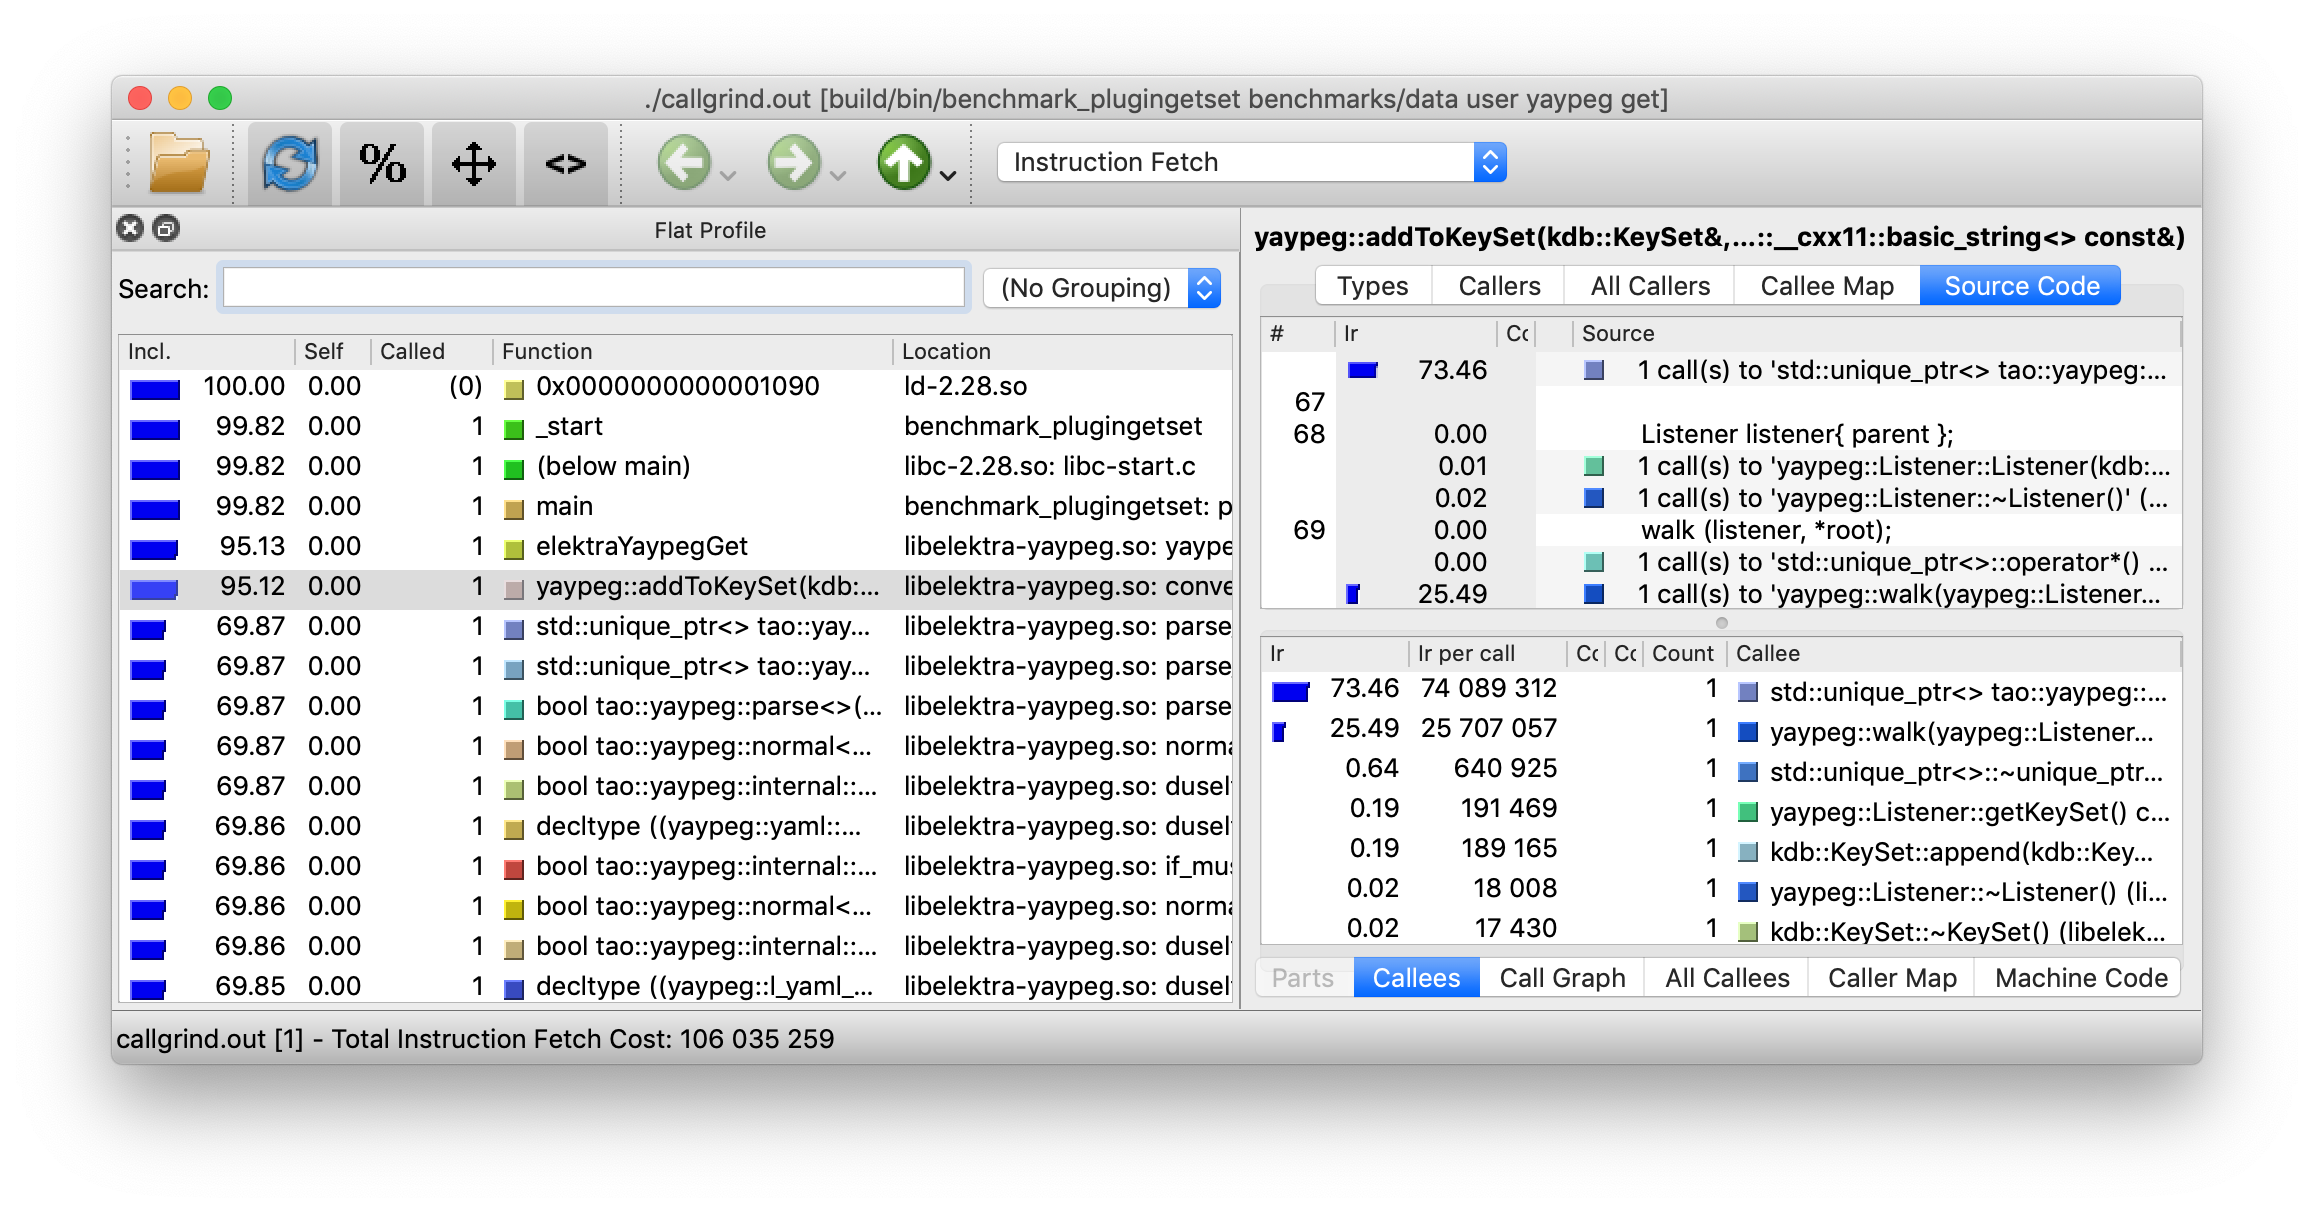
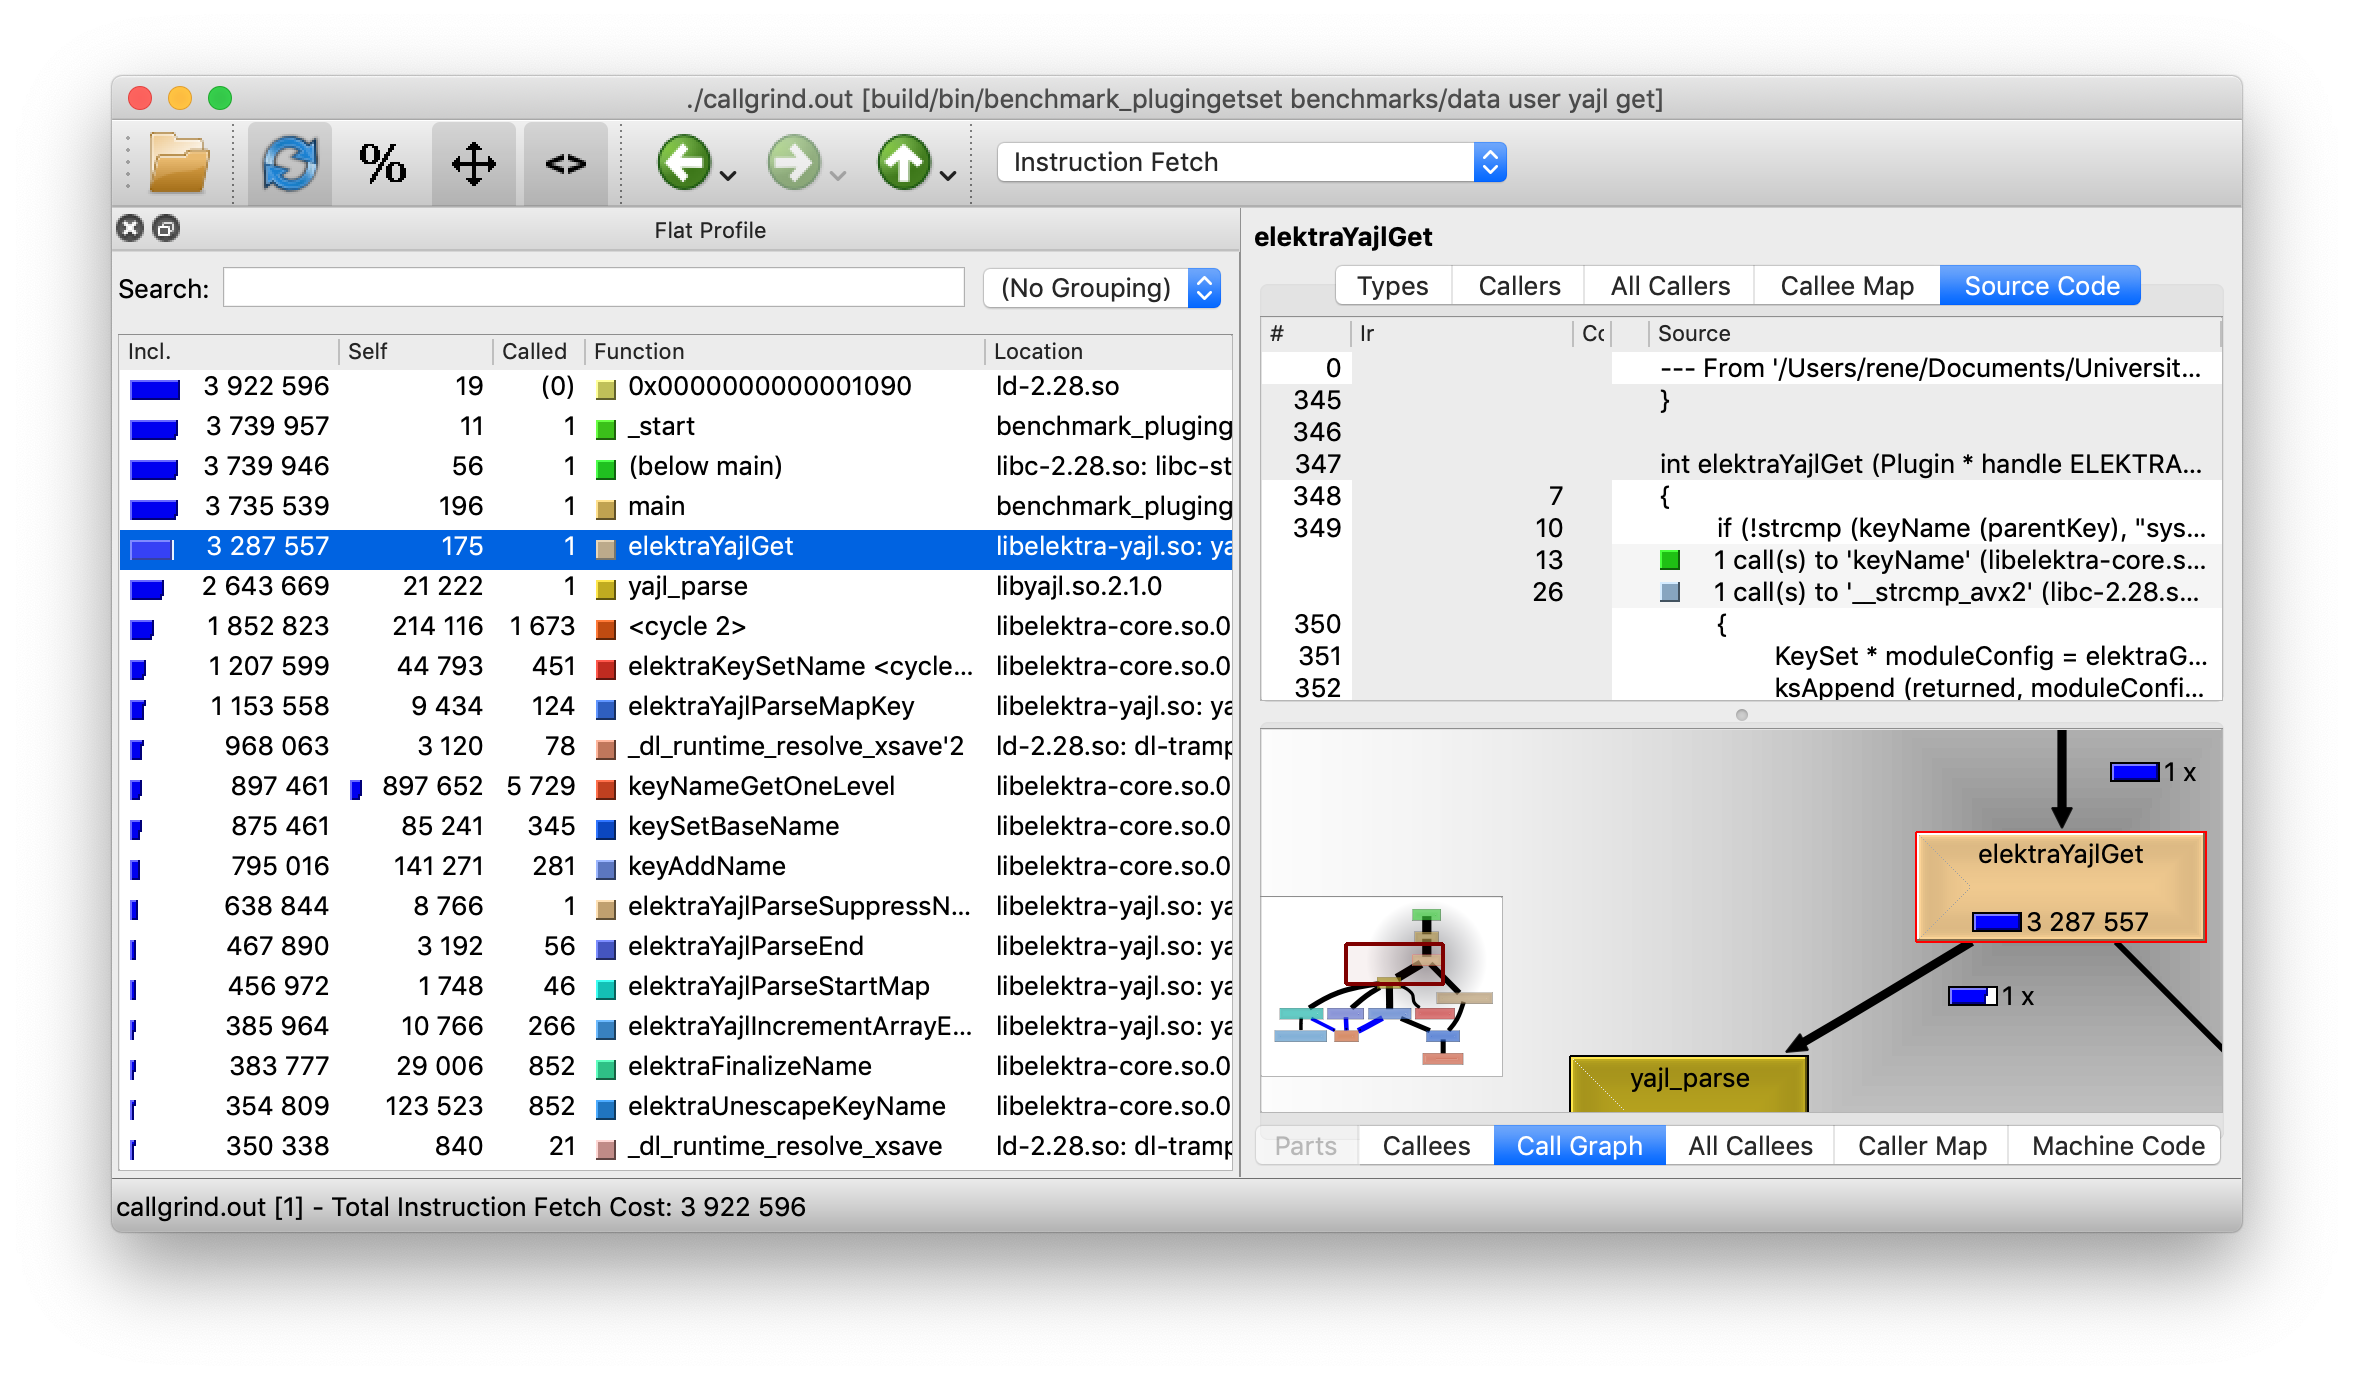
Profiling Tutorial: Use YAJL plugin in example

diff --git a/doc/tutorials/profiling.md b/doc/tutorials/profiling.md
@@ -25,18 +25,18 @@ Since we want to improve the readability of the Callgrind output we choose a bui
 
 #### Disabling `dlclose` Calls
 
-For this tutorial we decided to profile the [YAy PEG][] plugin. Since Elektra loads plugin code via `dlopen` and Callgrind [does not support the function `dlclose` properly](https://stackoverflow.com/questions/16719395) we remove the `dlclose` calls in the file [`dl.c`](../../src/libs/loader/dl.c) temporarily. At the time of writing one option to do that is deleting
+For this tutorial we decided to profile the [YAJL][] plugin. Since Elektra loads plugin code via `dlopen` and Callgrind [does not support the function `dlclose` properly](https://stackoverflow.com/questions/16719395) we remove the `dlclose` calls in the file [`dl.c`](../../src/libs/loader/dl.c) temporarily. At the time of writing one option to do that is deleting
 
 - a single line `dlclose` statement, and
 - an `if`-statement that checks the return value of a `dlclose` call
 
-. An unfortunate effect of this code update is that Elektra will now leak memory when it unloads a plugin. On the other hand, Callgrind will be able to add source code information about the [YAy PEG][] plugin to the profiling output.
+. An unfortunate effect of this code update is that Elektra will now leak memory when it unloads a plugin. On the other hand, Callgrind will be able to add source code information about the [YAJL][] plugin to the profiling output.
 
-[yay peg]: ../../src/plugins/yaypeg/README.md
+[yajl]: ../../src/plugins/yajl/README.md
 
 #### Building Elektra
 
-As we already described before we use the `Debug` build type for the profiling run. To make sure we test the actual performance of the [YAy PEG][] plugin we disable debug code and the logger. The following commands show one option to translate Elektra using this configuration, if we use [Ninja](https://ninja-build.org) as build tool:
+As we already described before we use the `Debug` build type for the profiling run. To make sure we test the actual performance of the [YAJL][] plugin we disable debug code and the logger. The following commands show one option to translate Elektra using this configuration, if we use [Ninja](https://ninja-build.org) as build tool:
 
 ```sh
 mkdir build
@@ -54,41 +54,41 @@ cd .. # Change working directory back to the root of repository
 
 #### Profiling the Code
 
-We use the tool [`benchmark_plugingetset`](../../benchmarks/README.md) to profile the execution time of [YAy PEG][]. The file [`keyframes.yaml`](https://github.com/ElektraInitiative/rawdata/blob/master/YAML/Input/keyframes.yaml) serves as input file for the plugin. Since `benchmark_plugingetset` requires a data file called
+We use the tool [`benchmark_plugingetset`](../../benchmarks/README.md) to profile the execution time of [YAJL][]. The file [`keyframes_complex.json`](../../src/plugins/yajl/yajl/keyframes_complex.json) serves as input file for the plugin. Since `benchmark_plugingetset` requires a data file called
 
 ```sh
 test.$plugin.in
 ```
 
-, we save a copy of `keyframes.yaml` as `test.yaypeg.in` in the folder `benchmarks/data`:
+, we save a copy of `keyframes_complex.json` as `test.yajl.in` in the folder `benchmarks/data`:
 
 ```sh
 mkdir -p benchmarks/data
-curl -L https://github.com/ElektraInitiative/rawdata/raw/master/YAML/Input/keyframes.yaml -o benchmarks/data/test.yaypeg.in
+cp src/plugins/yajl/yajl/keyframes_complex.json benchmarks/data/test.yajl.in
 ```
 
 . After that we call `benchmark_plugingetset` directly to make sure that everything works as expected:
 
 ```sh
-build/bin/benchmark_plugingetset benchmarks/data user yaypeg get
+build/bin/benchmark_plugingetset benchmarks/data user yajl get
 ```
 
 . If the command above fails with a segmentation fault, then please check
 
-- that the [build system](../COMPILE.md) included [YAy PEG][], and
+- that the [build system](../COMPILE.md) included [YAJL][], and
 - that your OS is able to locate the plugin (e.g. append the `lib` directory in the build folder to `LD_LIBRARY_PATH` on Linux)
 
 . If `benchmark_plugingetset` executed successfully, then you can now use Callgrind to profile the command:
 
 ```sh
 valgrind --tool=callgrind --callgrind-out-file=callgrind.out \
-build/bin/benchmark_plugingetset benchmarks/data user yaypeg get
+build/bin/benchmark_plugingetset benchmarks/data user yajl get
 ```
 
 . The command above will create a file called `callgrind.out` in the root of the repository. You can now remove the input data and the folder `benchmarks/data`:
 
 ```sh
-rm benchmarks/data/test.yaypeg.in
+rm benchmarks/data/test.yajl.in
 rmdir benchmarks/data
 ```
 
